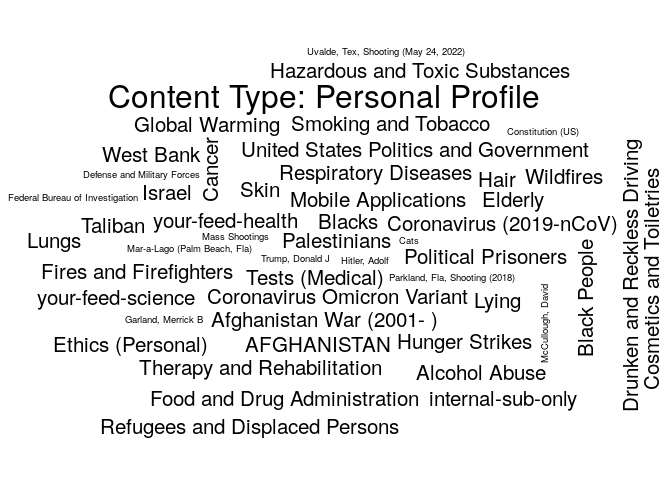
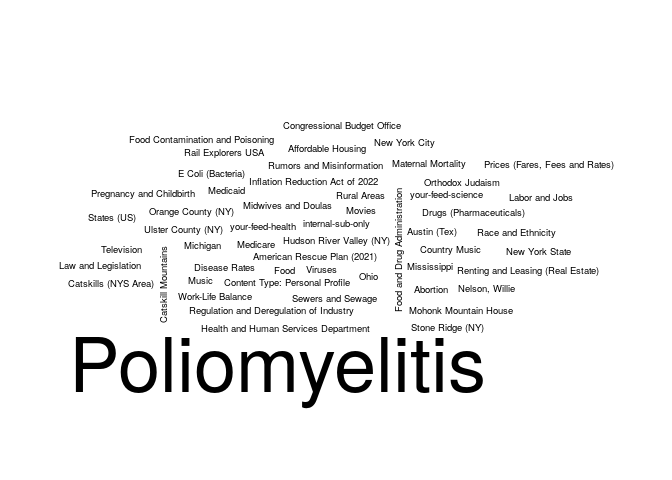
Updating the NYT report

Changed region(s): [[0.0, 0.0938, 1.0, 0.9062]]

diff --git a/03-nytimes/README.md b/03-nytimes/README.md
@@ -5,7 +5,7 @@ The following is an example of how to use the [NYTimes
 API](https://developer.nytimes.com/) to get a list of articles related
 to a particular term. Here we are searching articles that include the
 term `"health"`, and that were published up to seven days ago since
-2022-08-15.
+2022-08-22.
 
 ``` r
 # Preparing a function to use the GET method with the NYTimes API
@@ -83,25 +83,25 @@ colnames(tab) <- c("Keyword", "# Articles")
 knitr::kable(tab, row.names = FALSE)
 ```
 
-| Keyword                        | \# Articles |
-|:-------------------------------|------------:|
-| Content Type: Service          |          20 |
-| Research                       |          20 |
-| Women and Girls                |          20 |
-| Content Type: Personal Profile |          12 |
-| AFGHANISTAN                    |          10 |
-| Afghanistan War (2001- )       |          10 |
-| Alcohol Abuse                  |          10 |
-| Black People                   |          10 |
-| Blacks                         |          10 |
-| Cancer                         |          10 |
-| Coronavirus (2019-nCoV)        |          10 |
-| Coronavirus Omicron Variant    |          10 |
-| Cosmetics and Toiletries       |          10 |
-| Drunken and Reckless Driving   |          10 |
-| Elderly                        |          10 |
-| Ethics (Personal)              |          10 |
-| Fires and Firefighters         |          10 |
-| Food and Drug Administration   |          10 |
-| Global Warming                 |          10 |
-| Hair                           |          10 |
+| Keyword                                    | \# Articles |
+|:-------------------------------------------|------------:|
+| Centers for Disease Control and Prevention |          20 |
+| Health Insurance and Managed Care          |          20 |
+| Poliomyelitis                              |          20 |
+| Real Estate and Housing (Residential)      |          20 |
+| Rockland County (NY)                       |          20 |
+| United States Politics and Government      |          20 |
+| Vaccination and Immunization               |          20 |
+| Abortion                                   |          10 |
+| Affordable Housing                         |          10 |
+| American Rescue Plan (2021)                |          10 |
+| Austin (Tex)                               |          10 |
+| Catskill Mountains                         |          10 |
+| Catskills (NYS Area)                       |          10 |
+| Congressional Budget Office                |          10 |
+| Content Type: Personal Profile             |          10 |
+| Country Music                              |          10 |
+| Disease Rates                              |          10 |
+| Drugs (Pharmaceuticals)                    |          10 |
+| E Coli (Bacteria)                          |          10 |
+| Food                                       |          10 |
